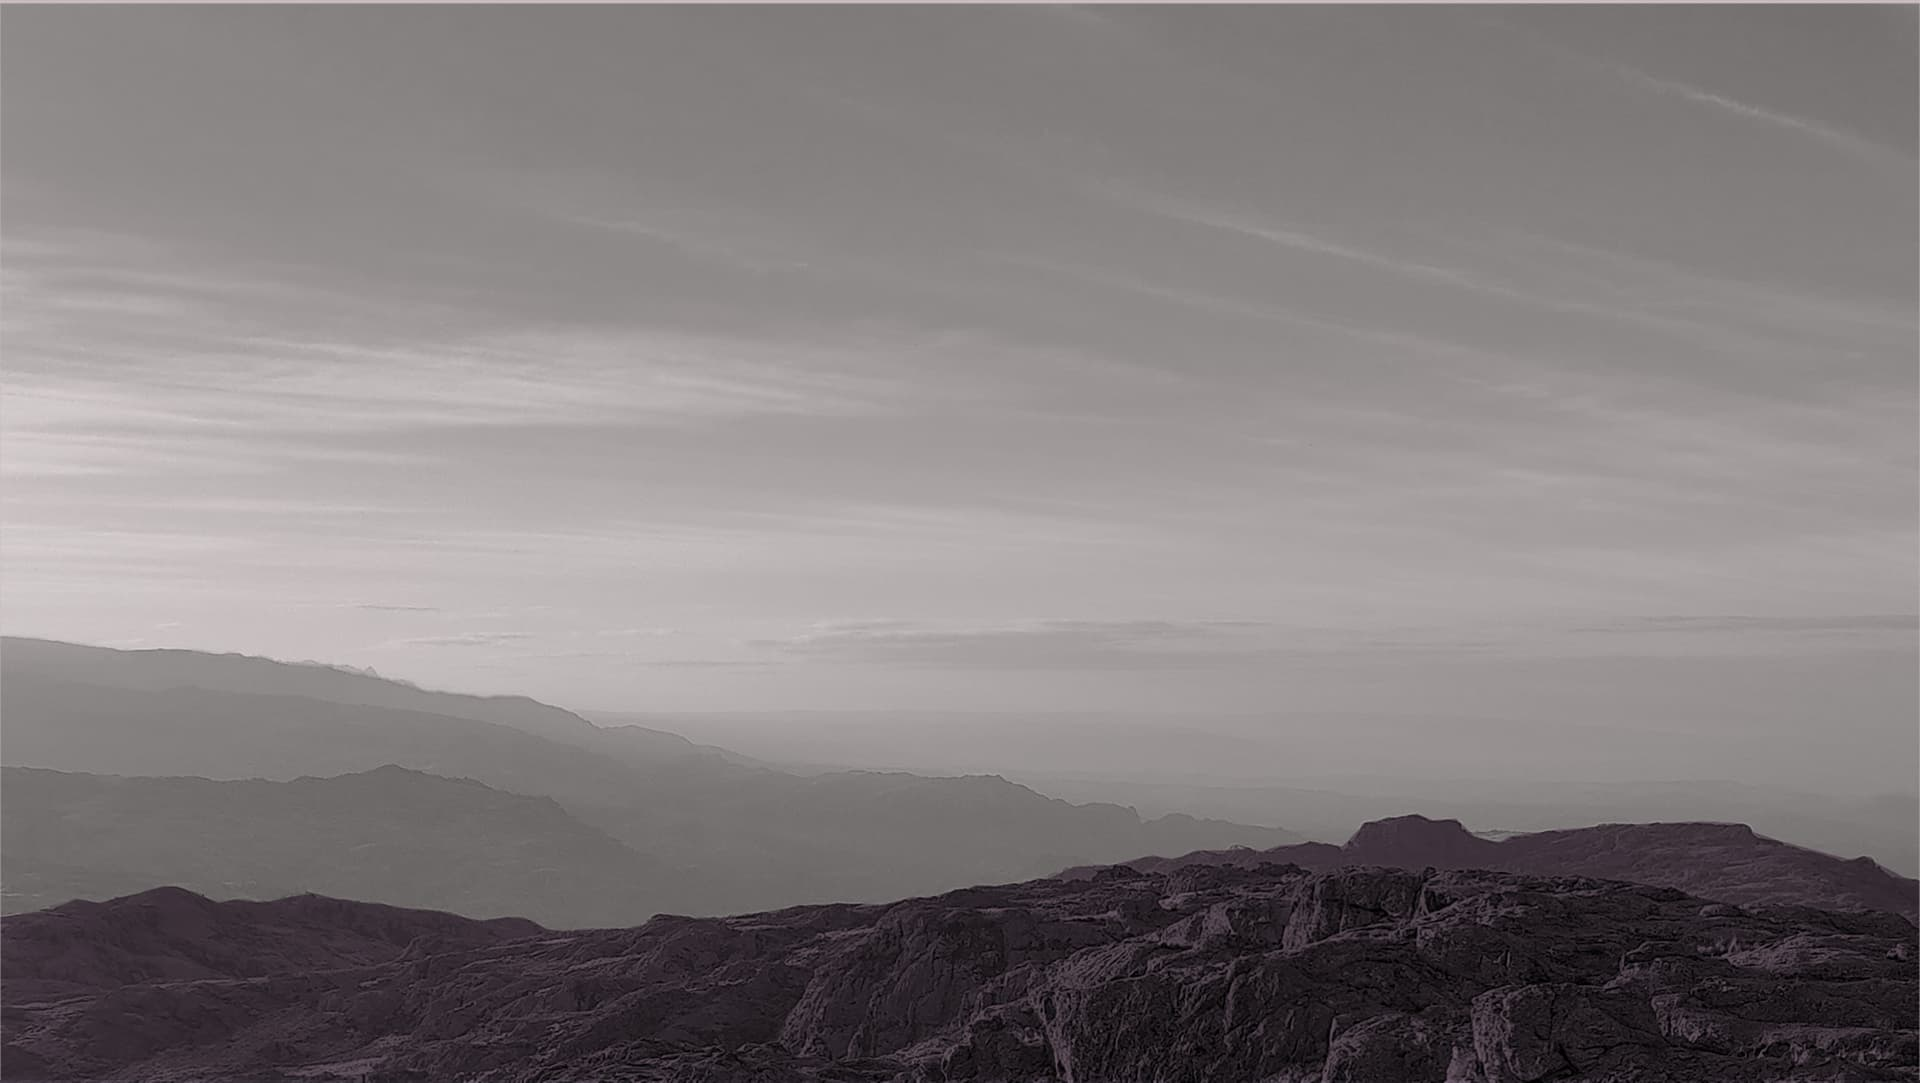
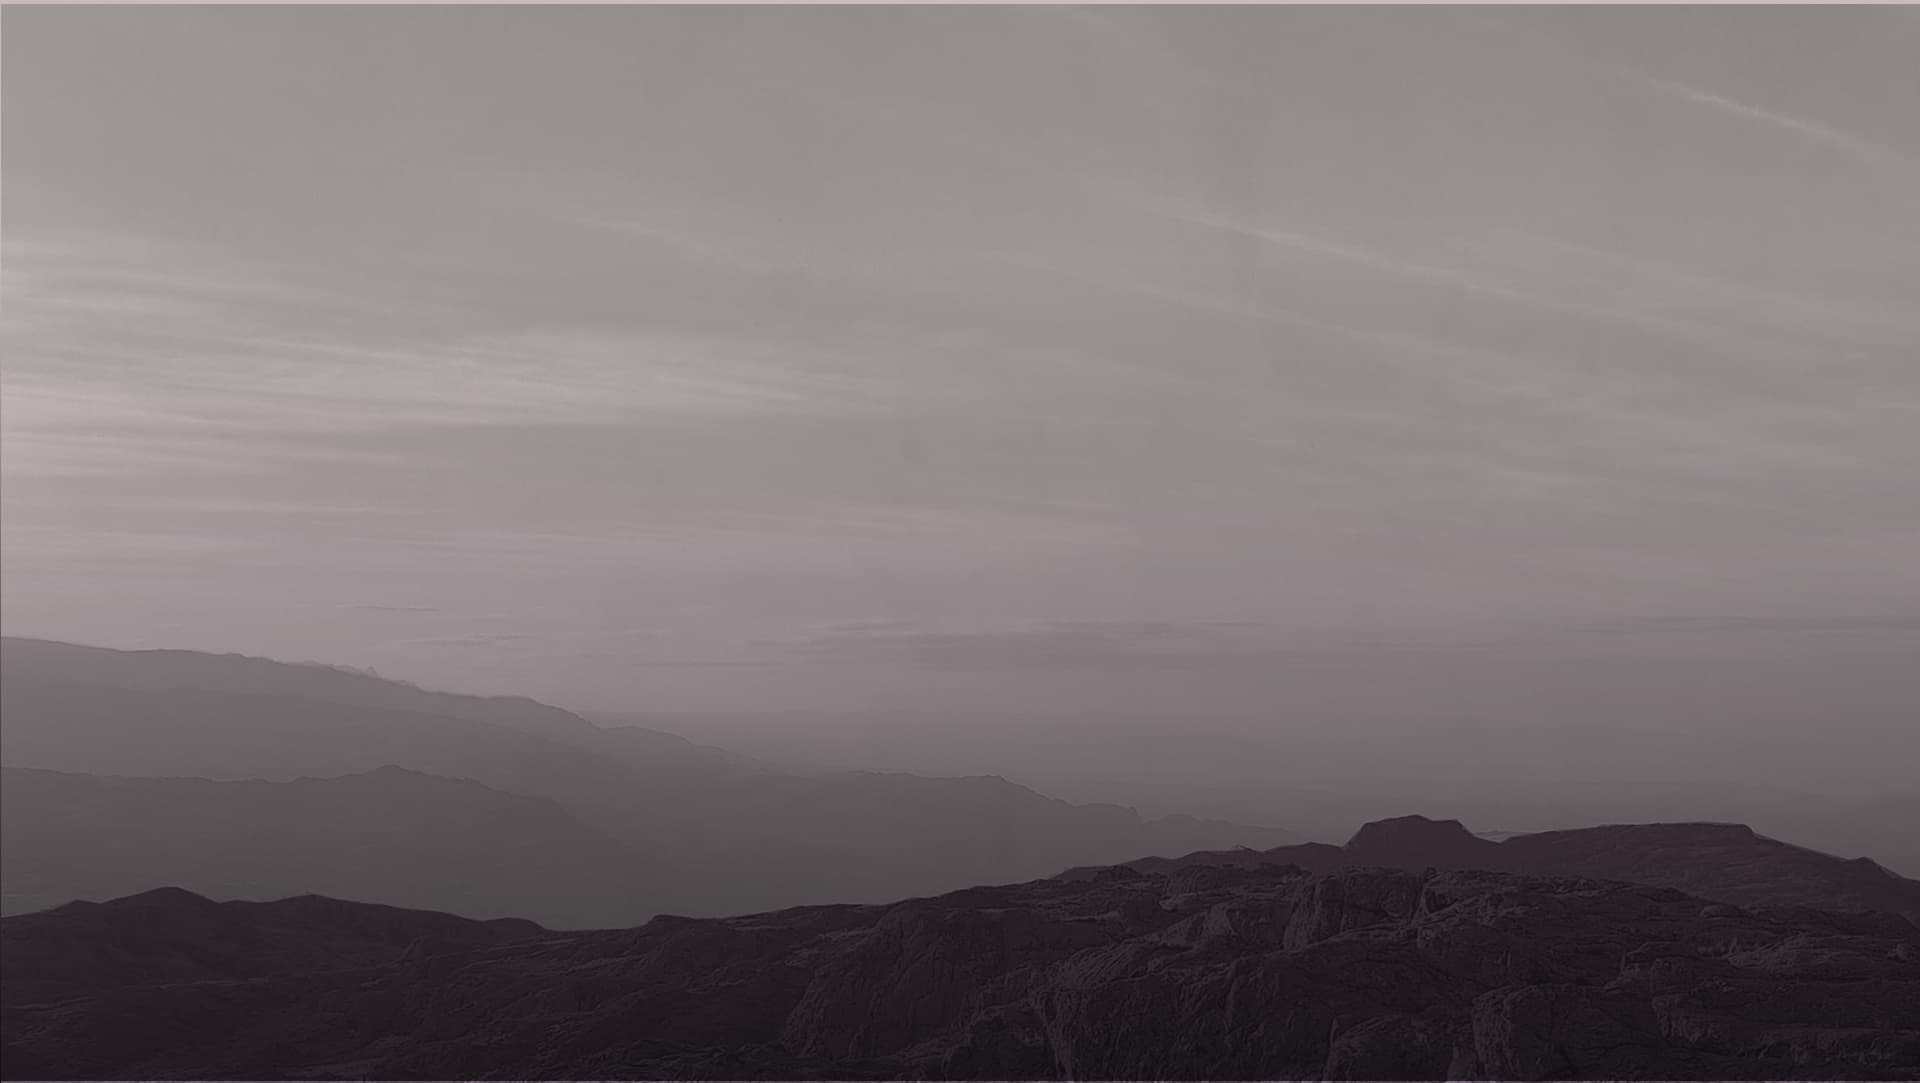
Backgrounds portada

diff --git a/styles-home.css b/styles-home.css
@@ -30,13 +30,21 @@ body {
     background-color: var(--negro);
     overflow-x: hidden;
     font-family: "Open Sans", sans-serif;
+}
 
+.bitter {
+   font-family: "Bitter", serif; 
 }
 
 main {
     color: #fff;
     height: fit-content;
+    /*
     background-image: linear-gradient( #020101, #020101c7, #461d29a4, #27130856, #2713081a), url(img/bg-proyectos.jpg); 
+    */
+    background-image: linear-gradient( #020101, #020101c7, #461d29a4, #27130856, #2713081a), url(img/bg-proyectos.jpg);
+    background-attachment: fixed;
+    background-position: center;
     background-position: bottom;
     background-size: cover;
     display: flex;
@@ -56,9 +64,12 @@ header {
     height: 100vh;
     min-height: fit-content;
     max-width: 100vw;
-    background-image: linear-gradient(#2713081a, #2713081a, #461d29a4, #020101c7, #020101), url(img/bg-sierras2.jpg); 
-    background-position: bottom;
-    background-size: cover;
+    background-image: url(img/bg-sierras2.jpg); 
+    /*  
+    background-image: linear-gradient(#2713081a, #2713081a, #461d29a4, #020101c7, #020101), url(img/bg-sierras2.jpg);
+    */
+    background-attachment: fixed;
+    background-position: center;
     display: flex;
     flex-direction: row;
     flex-wrap: wrap;

diff --git a/comenzar-itinerario.html b/comenzar-itinerario.html
@@ -23,11 +23,14 @@
         </div>
     </nav>
     <section id="presentacion-index">
-        <div id="presentacion-texto" class="fadein">
-            <p>Estás por entrar a un territorio conocido.</p>
-            <p>El paisaje que un día elegiste transitar aquí se revela ante vos. </p>
-            <p>Quizás nunca lo viste de este modo, pero tus huellas ya habitan su suelo. </p>
-            <p>Recorrerlo será, también, redescubrirte.</p>
+        <div id="presentacion-texto" class="bitter">
+            <p class="fadein ad4">Estás por entrar a un territorio conocido.</p>
+            <p class="fadein2">El paisaje que un día elegiste transitar aquí se revela ante vos. </p>
+            <p class="fadein3">Quizás nunca lo viste de este modo, pero tus huellas ya habitan su suelo. </p>
+            <p class="fadein4">Recorrerlo será, también, redescubrirte.</p>
+           <br>
+           <br>
+           <br>
            <br> 
            <a class="boton bordo fadein3" href="regiones.html">Entrar</a>
         </div>

diff --git a/animations.css b/animations.css
@@ -19,6 +19,39 @@
       }
     }
 
+    @keyframes fadeIn3 {
+      0% {
+        opacity: 0;
+      }
+      0% {
+        opacity: 0;
+      }
+      80% {
+        opacity: 0;
+      }
+      100% {
+        opacity: 1;
+      }
+    }
+
+    @keyframes fadeIn4 {
+      0% {
+        opacity: 0;
+      }
+      0% {
+        opacity: 0;
+      }
+      0% {
+        opacity: 0;
+      }
+      80% {
+        opacity: 0;
+      }
+      100% {
+        opacity: 1;
+      }
+    }
+
       @keyframes fadeInOut {
       0% {
         opacity: 0;
@@ -57,12 +90,21 @@
       animation-duration: 3s;
     }
 
+     .ad4 {
+      animation-duration: 4s;
+    }
+
     .fadein2 {
       animation-name: fadeIn2;
-      animation-duration: 5s;
+      animation-duration: 4s;
     }
 
     .fadein3 {
-      animation-name: fadeIn2;
-      animation-duration: 6s;
+      animation-name: fadeIn3;
+      animation-duration: 4s;
+    }
+
+    .fadein4 {
+      animation-name: fadeIn4;
+      animation-duration: 4s;
     }

diff --git a/index.html b/index.html
@@ -24,9 +24,9 @@
     <header>
         <div>
             <div class="flex-row">
-                <img src="img/logo-itinerarios-blanco.png" alt=""><img src="img/logo-bajada-blanco.png" alt="">
+                <img class="angosto" src="img/logo-itinerarios-horizontal.png" alt="">
             </div>
-            <div class="angosto">
+            <div class="bitter angosto">
                     <p>En la intrincada trama de la historia, busquemos juntos las huellas del antiguo oficio de enseñar.</p>
                     <p>Un proyecto transmedia para reconstruir los escenarios, acontecimientos y debates que dieron vida al sistema formador docente de Córdoba.</p>
                 </div>

diff --git a/styles.css b/styles.css
@@ -25,6 +25,10 @@ h1, h2, h3, h4 {
   margin: 0;
 }
 
+.bitter{
+  font-family: "Bitter", serif;
+}
+
 .intro {
     display: flex;
     height: 100%;
@@ -151,8 +155,7 @@ section {
     }
     
     #presentacion-texto {
-        width: 500px;
-        max-width: 100vw;
+        max-width: 80vw;
         text-align: center;
         line-height: 1em;
         /*
